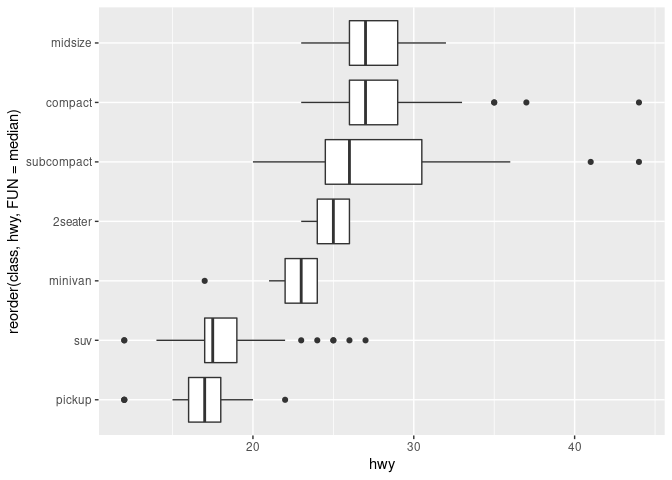
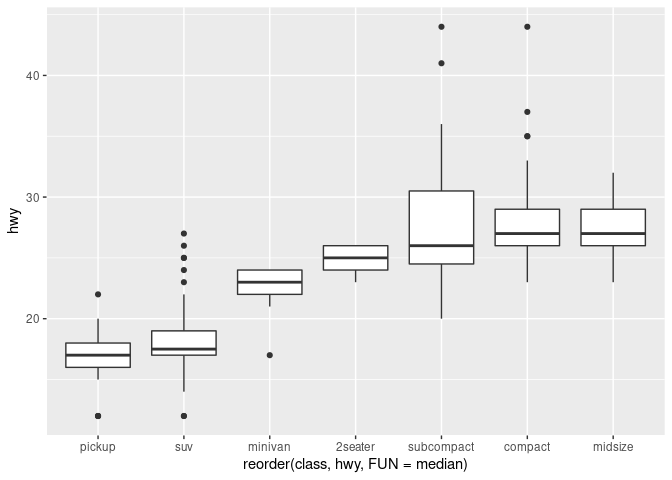
Polish

diff --git a/06_covariation/README.md b/06_covariation/README.md
@@ -1,16 +1,5 @@
 
-# Covariation
-
--   The tendency for two or more variables to vary together in a related
-    way.
-
--   To spot covariation, visualise the relationship between the
-    variables.
-
--   How? It depends on whether the variables are categorical or
-    continuous.
-
-Packages.
+### Setup
 
 ``` r
 library(tidyverse)
@@ -24,7 +13,21 @@ library(tidyverse)
 #> x dplyr::lag()    masks stats::lag()
 ```
 
-Data.
+# Covariation
+
+-   The tendency for two or more variables to vary together in a related
+    way.
+
+-   To spot covariation, visualise the relationship between the
+    variables.
+
+-   How you do it depends on the type of variables you have:
+
+    -   A categorical variable and a continuous variable (today).
+    -   Two categorical variables.
+    -   Two continuous variables.
+
+### A categorical and continuous variable.
 
 ``` r
 diamonds %>% 
@@ -45,27 +48,6 @@ diamonds %>%
 #> # … with 53,930 more rows
 ```
 
-``` r
-mpg %>% 
-  select(class, hwy)
-#> # A tibble: 234 × 2
-#>    class     hwy
-#>    <chr>   <int>
-#>  1 compact    29
-#>  2 compact    29
-#>  3 compact    31
-#>  4 compact    30
-#>  5 compact    26
-#>  6 compact    26
-#>  7 compact    27
-#>  8 compact    26
-#>  9 compact    25
-#> 10 compact    28
-#> # … with 224 more rows
-```
-
-### A categorical and continuous variable.
-
 #### Freaquency plot
 
 This isn’t very useful.
@@ -83,7 +65,7 @@ ggplot(diamonds) +
 #> `stat_bin()` using `bins = 30`. Pick better value with `binwidth`.
 ```
 
-![](README_files/figure-gfm/unnamed-chunk-4-1.png)<!-- --> The variation
+![](README_files/figure-gfm/unnamed-chunk-3-1.png)<!-- --> The variation
 of count across values of cut is too much. To make the comparison easier
 we need to standardize the valyes of `y`. Let’s plot density: The count
 standardize so that the area under each curve is one.
@@ -94,7 +76,7 @@ ggplot(diamonds) +
 #> `stat_bin()` using `bins = 30`. Pick better value with `binwidth`.
 ```
 
-![](README_files/figure-gfm/unnamed-chunk-5-1.png)<!-- -->
+![](README_files/figure-gfm/unnamed-chunk-4-1.png)<!-- -->
 
 Surprisingly, fair diamonds (the lowest quality) seem to have the
 highest average price!
@@ -108,7 +90,7 @@ ggplot(diamonds, aes(x = cut, y = price)) +
   geom_boxplot()
 ```
 
-![](README_files/figure-gfm/unnamed-chunk-6-1.png)<!-- -->
+![](README_files/figure-gfm/unnamed-chunk-5-1.png)<!-- -->
 
 -   The boxplots are compact so we can more easily compare them.
 
@@ -118,15 +100,33 @@ ggplot(diamonds, aes(x = cut, y = price)) +
 
 -   `cut` is an “ordered” factor.
 
--   `hwy` (Highway miles per gallon) isn’t ordered so the trend is hard
-    to see:
+``` r
+diamonds %>% 
+  distinct(cut) %>% 
+  pull()
+#> [1] Ideal     Premium   Good      Very Good Fair     
+#> Levels: Fair < Good < Very Good < Premium < Ideal
+```
+
+-   In the `mpg` dataset, the variable `class` isn’t ordered.
 
 ``` r
-default_aes <- aes(
+mpg %>% 
+  distinct(class) %>% 
+  pull()
+#> [1] "compact"    "midsize"    "suv"        "2seater"    "minivan"   
+#> [6] "pickup"     "subcompact"
+```
+
+-   The trend is hard to see on how highway mileage (`hwy`) varies
+    across classes:
+
+``` r
+class_hwy <- aes(
   x = class,
   y = hwy
 )
-default_aes
+class_hwy
 #> Aesthetic mapping: 
 #> * `x` -> `class`
 #> * `y` -> `hwy`
@@ -134,19 +134,19 @@ default_aes
 
 ``` r
 ggplot(mpg) +
-  geom_boxplot(default_aes)
+  geom_boxplot(class_hwy)
 ```
 
-![](README_files/figure-gfm/unnamed-chunk-8-1.png)<!-- -->
+![](README_files/figure-gfm/unnamed-chunk-9-1.png)<!-- -->
 
 `reorder()` helps you order values of a categorical variable like `cut`.
 
 ``` r
-reordered_aes <- aes(
+class_reordered_by_median_hwy <- aes(
   x = reorder(class, hwy, FUN = median),
   y = hwy
 )
-reordered_aes
+class_reordered_by_median_hwy
 #> Aesthetic mapping: 
 #> * `x` -> `reorder(class, hwy, FUN = median)`
 #> * `y` -> `hwy`
@@ -154,11 +154,11 @@ reordered_aes
 
 ``` r
 p <- ggplot(mpg) +
-  geom_boxplot(reordered_aes)
+  geom_boxplot(class_reordered_by_median_hwy)
 p
 ```
 
-![](README_files/figure-gfm/unnamed-chunk-10-1.png)<!-- -->
+![](README_files/figure-gfm/unnamed-chunk-11-1.png)<!-- -->
 
 If you have long variable names you may better flip the plot.
 
@@ -166,4 +166,4 @@ If you have long variable names you may better flip the plot.
 p + coord_flip()
 ```
 
-![](README_files/figure-gfm/unnamed-chunk-11-1.png)<!-- -->
+![](README_files/figure-gfm/unnamed-chunk-12-1.png)<!-- -->
